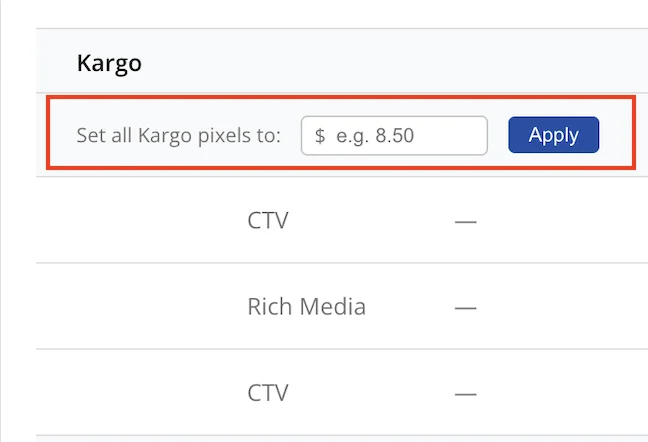
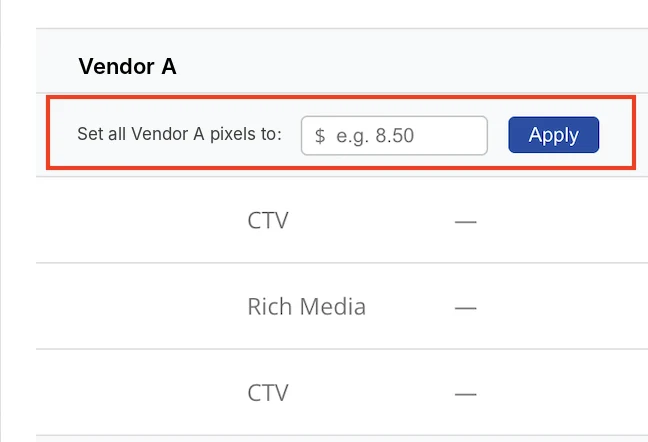
Remove the export dialog image; rename the vendor in the spend field image to Vendor A
Claude-Session: https://claude.ai/code/session_0159Boi7BcmMUJMtyvy2znsV

Changed region(s): [[0.1235, 0.2941, 0.4321, 0.3529], [0.1235, 0.1176, 0.2778, 0.1765]]

diff --git a/index.html b/index.html
@@ -697,7 +697,7 @@ footer .wrap{display:flex;justify-content:space-between;gap:12px;flex-wrap:wrap}
         <h3>Scheduled email reports</h3>
         <p class="hook">Prototyping, Zartico</p>
         <p class="for"><b>Built for:</b> DMO leaders and the stakeholders they report to</p>
-        <div class="shots"><figure><a href="work/zma-schedule-export.webp" target="_blank" rel="noopener"><img src="work/zma-schedule-export.webp" width="1600" height="654" alt="Dashboard with new Schedule and Export buttons highlighted" loading="lazy"></a><figcaption>Schedule and Export, added to the dashboard. Prototype.</figcaption></figure><figure><a href="work/zma-schedule-report.webp" target="_blank" rel="noopener"><img src="work/zma-schedule-report.webp" width="988" height="758" alt="Schedule Report dialog with recipients, format, and recurring delivery options" loading="lazy"></a><figcaption>Recurring delivery to any inbox. Prototype.</figcaption></figure><figure><a href="work/zma-export-report.webp" target="_blank" rel="noopener"><img src="work/zma-export-report.webp" width="694" height="900" alt="Export Report dialog with PDF and CSV options" loading="lazy"></a><figcaption>PDF or CSV, filtered or full. Prototype.</figcaption></figure></div>
+        <div class="shots"><figure><a href="work/zma-schedule-export.webp" target="_blank" rel="noopener"><img src="work/zma-schedule-export.webp" width="1600" height="654" alt="Dashboard with new Schedule and Export buttons highlighted" loading="lazy"></a><figcaption>Schedule and Export, added to the dashboard. Prototype.</figcaption></figure><figure><a href="work/zma-schedule-report.webp" target="_blank" rel="noopener"><img src="work/zma-schedule-report.webp" width="988" height="758" alt="Schedule Report dialog with recipients, format, and recurring delivery options" loading="lazy"></a><figcaption>Recurring delivery to any inbox. Prototype.</figcaption></figure></div>
         <details><summary>Read more</summary><dl>
           <dt>Problem</dt><dd>Stakeholders had to log in to pull campaign results, so reports were often late or never reached the people who fund the campaigns.</dd>
           <dt>Approach</dt><dd>Designed scheduled delivery of report snapshots by email, so customers could choose who gets which report and how often.</dd>
